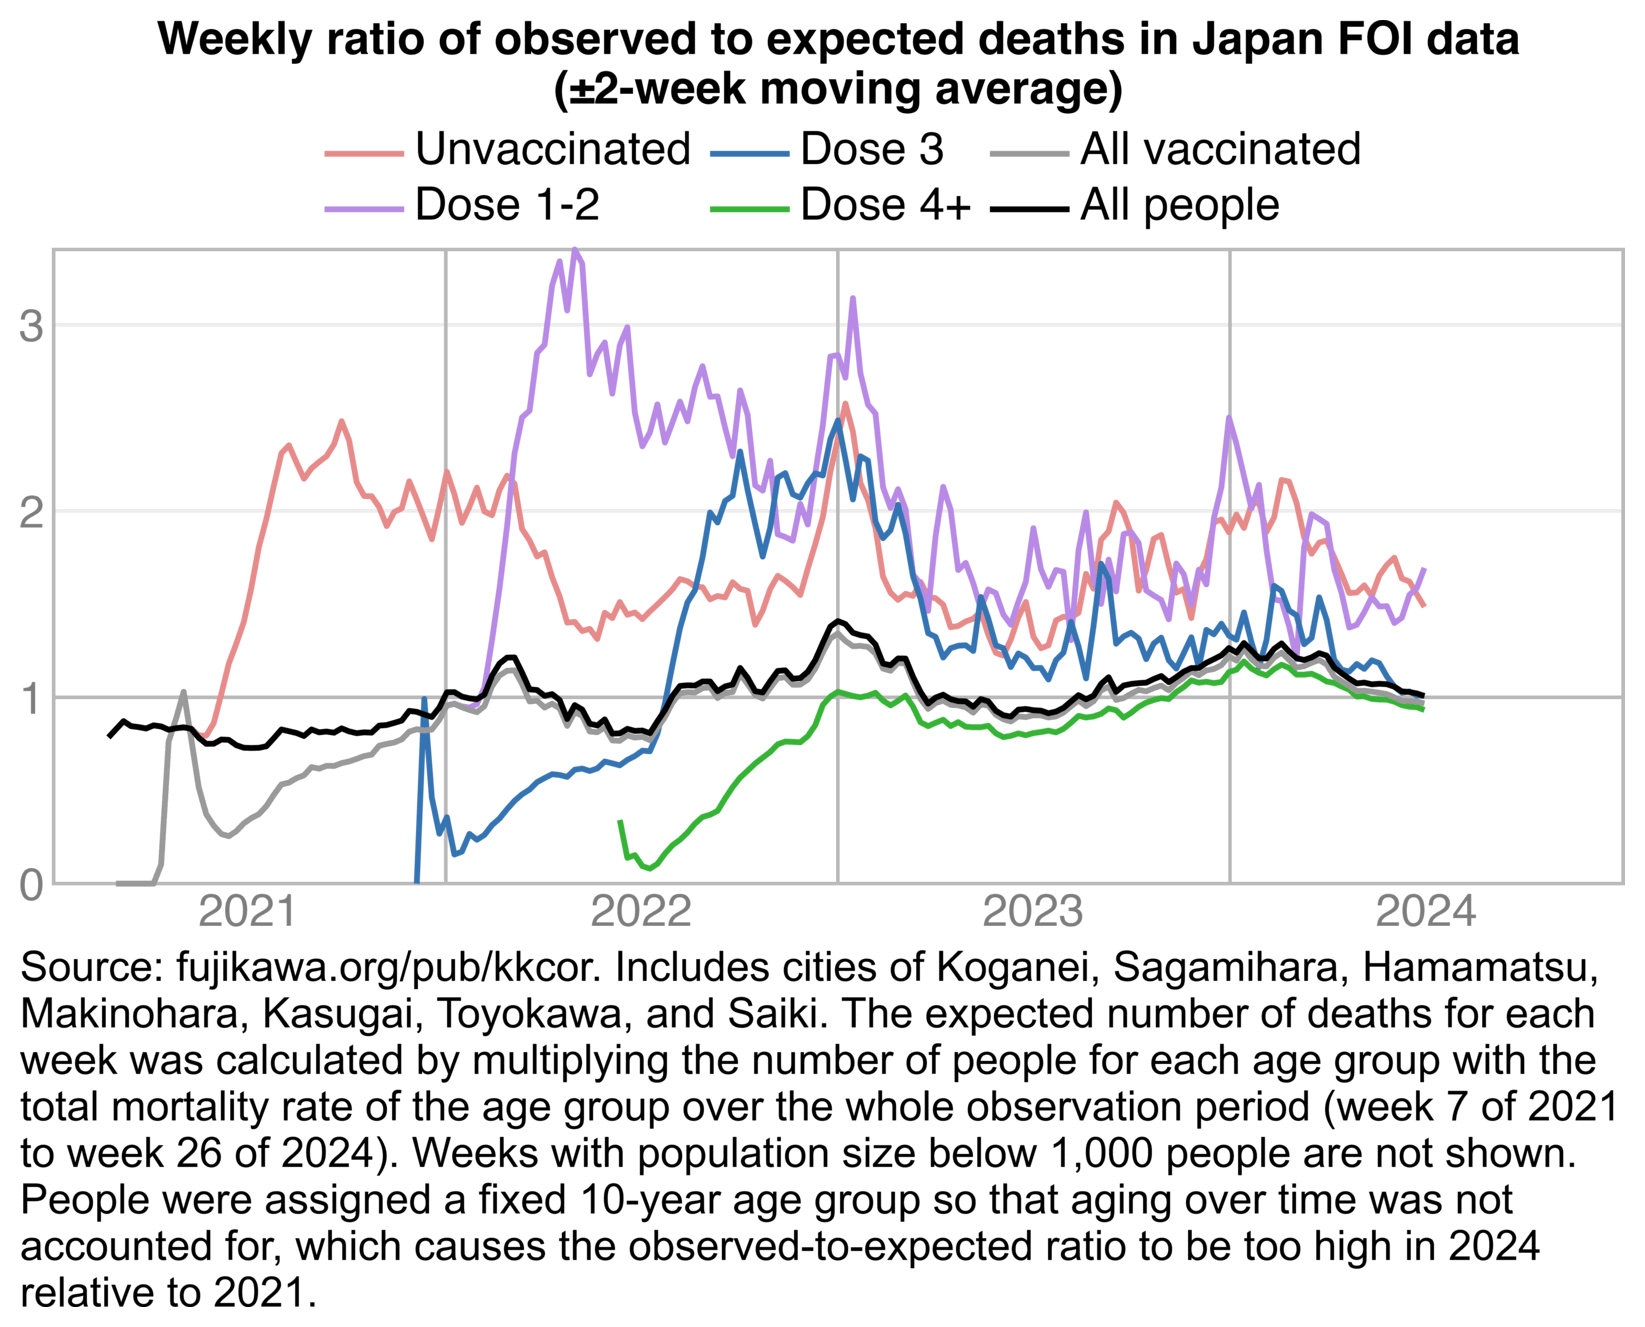
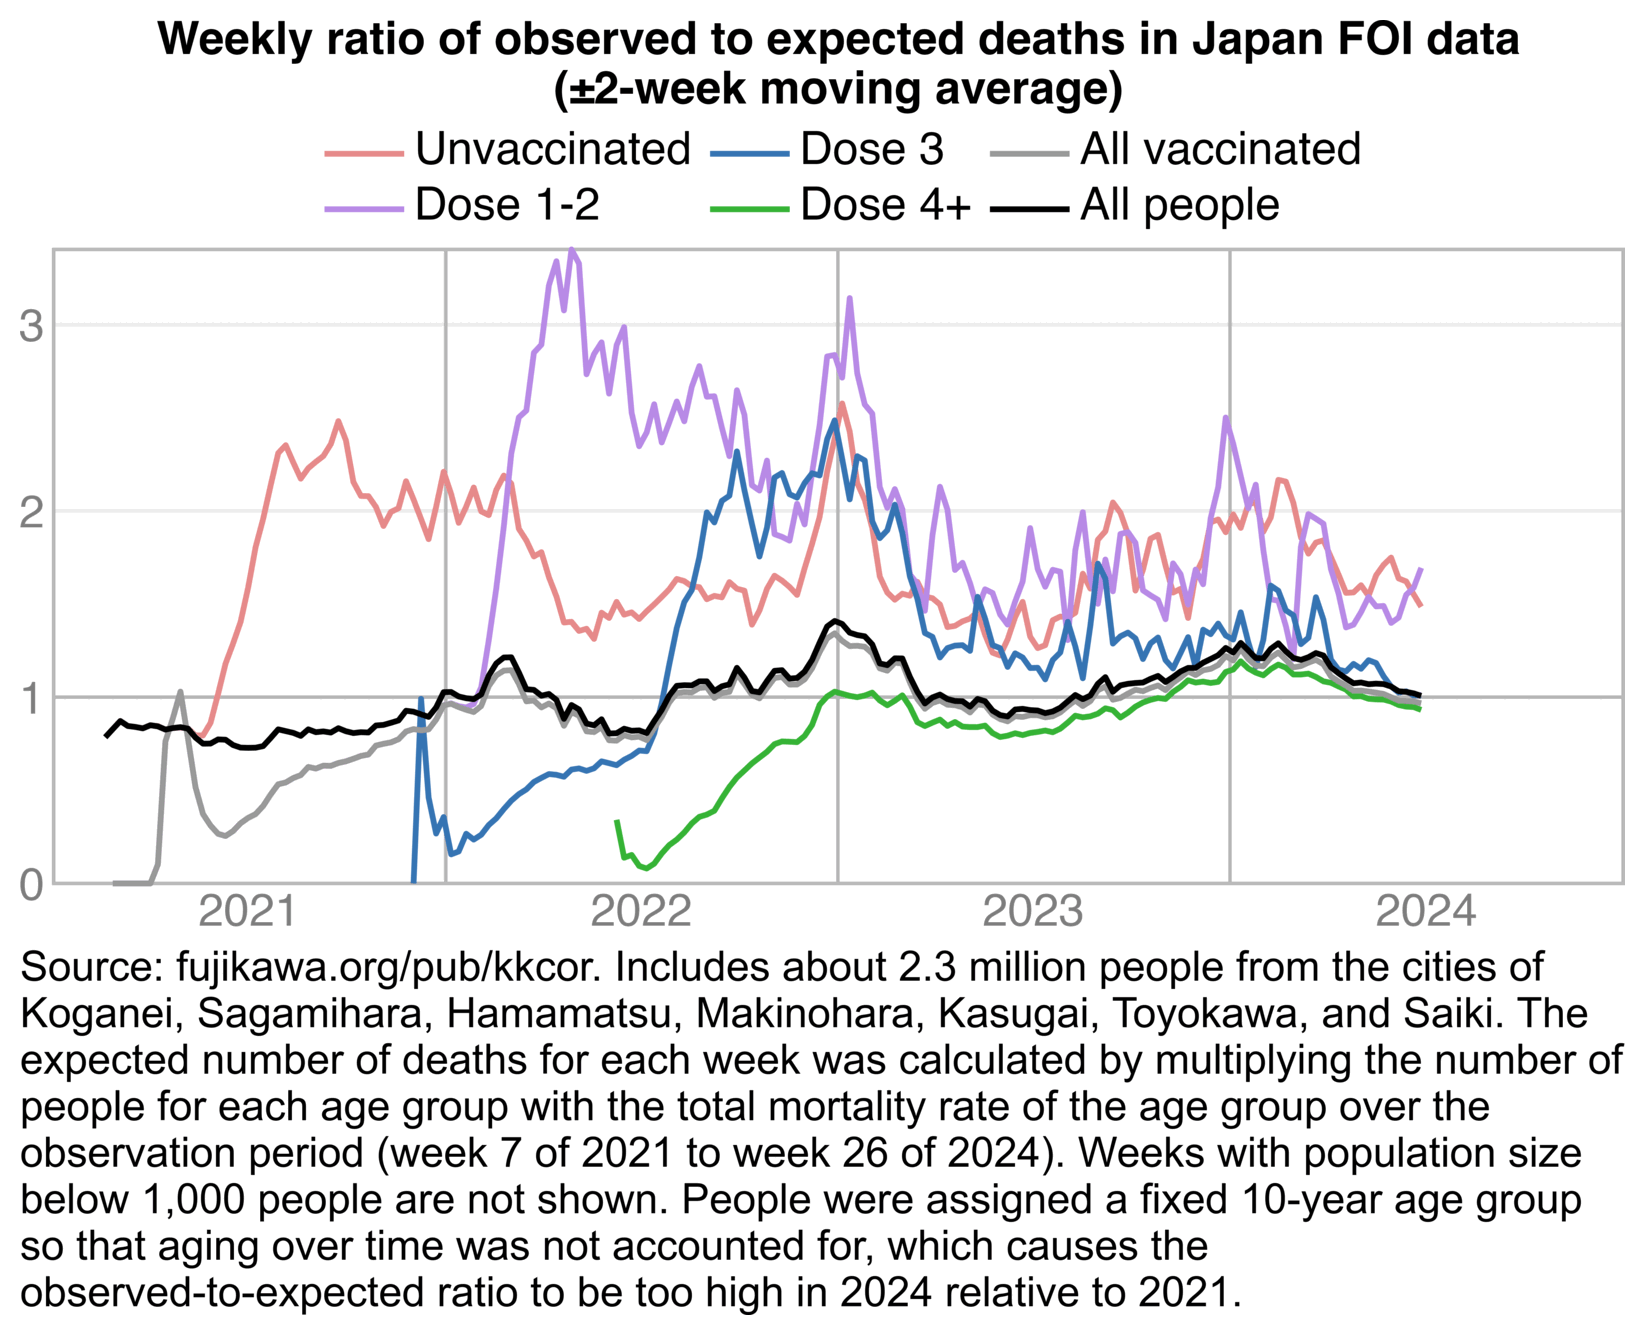
a

diff --git a/rootclaim6.html b/rootclaim6.html
@@ -87,30 +87,36 @@ mortality."</span>
 <div>
 <img src=i/rootclaim-jpcum-1.webp width=800>
 </div>
-<p>So at the start of the x-axis, people with 4 doses have reduced
+<p>By <span class="quote">"mortality"</span>, Kirsch meant the
+cumulative number of deaths multiplied by a constant factor, which he
+chose so that his two lines were roughly aligned at the start of the
+x-axis. But if by mortality you mean ASMR instead, then the 4-dose
+cohort has lower mortality than the 3-dose cohort even at the end of the
+x-axis.</p>
+<p>At the start of the x-axis, people with 4 doses have reduced
 mortality because of the healthy vaccinee effect, and people with 3
 doses have elevated mortality because of the straggler effect. But over
-time the age-standardized mortality rate of the cohorts converges.</p>
+time the ASMR of the two cohorts converges.</p>
 <p>Kirsch aligned the lines so that they matched at the start of the
-x-axis, so the line for dose 4 rose above the line for dose 3 at the end
-of the x-axis, which Kirsch interpreted as harm caused by vaccines. But
-if you align the lines so that they are matched at the end of the x-axis
-instead, then it rather looks like dose 3 has high mortality at the
-start of the x-axis relative to dose 4, which can be explained by the
-straggler effect:
+x-axis, but when the line for dose 4 subsequently rose above the line
+for dose 3, Kirsch attributed the increase to harm caused by vaccines.
+But if you align the lines so that they are matched at the end of the
+x-axis instead, then it rather looks like dose 3 has high mortality at
+the start of the x-axis relative to dose 4, which can be explained by
+the straggler effect:
 [<a href=https://medicalfacts.info/kcor.rb>https://medicalfacts.info/kcor.rb</a>]</p>
 <div>
 <img src=i/rootclaim-jpcum-2.webp width=800>
 </div>
-<p>Kenji Fujikawa has now published CSV files for FOI data from 7 cities
-here: <a href=https://fujikawa.org/pub/kkcor/.><a
+<p>Kenji Fujikawa has now published FOI data from 7 cities here:
+<a href=https://fujikawa.org/pub/kkcor/.><a
 href="https://fujikawa.org/pub/kkcor/"
 class="uri">https://fujikawa.org/pub/kkcor/</a>.</a> I used his files to
-make the next plot, which shows that due to the straggler effect, the
-mortality of people with 3 but not more doses shoots up in late 2022
-when the 4th dose is rolled out. But by late 2023 the straggler effect
-has weakened, so people with 3 but not more doses have only slightly
-higher mortality than people with 4 or more doses:</p>
+make the next plot, which shows in late 2022 when the 4th dose is rolled
+out, the mortality of people with 3 but not more doses shoots up because
+of the straggler effect. But by late 2023 the straggler effect has
+weakened, so people with 3 but not more doses have almost as low
+mortality than people with 4 or more doses:</p>
 <div>
 <img src=i/rootclaim-jpcum-4.webp width=550>
 </div>
@@ -119,6 +125,8 @@ higher mortality than people with 4 or more doses:</p>
 Show code
 </button>
 <pre>system(&quot;wget -rl1 -np -nd -nH -Acsv https://fujikawa.org/pub/kkcor&quot;)
+
+ma=\(x,b=1,f=b){x[]=rowMeans(embed(c(rep(NA,b),x,rep(NA,f)),f+b+1),na.rm=T);x}
 
 t=do.call(rbind,lapply(Sys.glob(&quot;jp*WKA.csv&quot;),fread,fill=T))
 
@@ -142,10 +150,10 @@ a[,`:=`(dead=ma(dead,2),pop=ma(pop,2)),.(dose,age)]
 
 a[,base:=pop*a[,sum(dead)/sum(pop),age]$V1[factor(age)]]
 
-a=rbind(a,a[dose&gt;0][,dose:=7],copy(a)[,dose:=8])
+a=rbind(a,a[dose&gt;0][,dose:=4],copy(a)[,dose:=5])
 a=a[,.(dead=sum(dead),pop=sum(pop),base=sum(base)),.(dose,age,date)]
 
-p=a[,.(y=ifelse(sum(pop)&lt;1e3,NA_real_,sum(dead)/sum(base))),.(x=date,z=dose)]
+p=a[,.(y=ifelse(sum(pop)&lt;1e3,NA_real_,sum(dead)/sum(base))),.(x=date-3,z=dose)]
 
 lab=c(&quot;Unvaccinated&quot;,&quot;Dose 1-2&quot;,&quot;Dose 3&quot;,&quot;Dose 4+&quot;,&quot;All vaccinated&quot;,&quot;All people&quot;)
 color=c(hsv(c(0,27/36,21/36,1/3),c(.4,.4,.7,.7),c(.9,.9,.7,.7)),&quot;gray60&quot;,&quot;black&quot;)
@@ -156,7 +164,7 @@ ystart=0;yend=max(p$y,na.rm=T);ybreak=0:yend
 ylim=p[,.(max=max(y,na.rm=T))]
 
 ggplot(p)+
-geom_hline(yintercept=ybreak,color=&quot;gray92&quot;,linewidth=.4)+
+geom_hline(yintercept=ybreak,color=&quot;gray91&quot;,linewidth=.4)+
 geom_rect(data=ylim,aes(ymax=max),xmin=xstart,xmax=xend,ymin=ystart,lineend=&quot;square&quot;,linejoin=&quot;mitre&quot;,fill=NA,color=&quot;gray72&quot;,linewidth=.4)+
 geom_hline(yintercept=1,color=&quot;gray72&quot;,linewidth=.4)+
 geom_vline(xintercept=seq(xstart,xend,&quot;year&quot;),color=&quot;gray72&quot;,linewidth=.4)+
@@ -188,7 +196,7 @@ theme(axis.text=element_text(size=11,color=&quot;gray50&quot;),
   plot.title=element_text(size=11,hjust=.5,face=2,margin=margin(,,3)))
 ggsave(&quot;1.png&quot;,width=5.5,height=3.2,dpi=300*4)
 
-system(&quot;mogrify -trim 1.png;magick 1.png \\( -size `identify -format %w 1.png`x -font Arial -interline-spacing -3 -pointsize $[42*4] caption:&#39;Source: fujikawa.org/pub/kkcor. Includes cities of Koganei, Sagamihara, Hamamatsu, Makinohara, Kasugai, Toyokawa, and Saiki. The expected number of deaths for each week was calculated by multiplying the number of people for each age group with the total mortality rate of the age group over the whole observation period (week 7 of 2021 to week 26 of 2024). Weeks with population size below 1,000 people are not shown. People were assigned a fixed 10-year age group so that aging over time was not accounted for, which causes the observed-to-expected ratio to be too high in 2024 relative to 2021.&#39; -splice x$[16*4] \\) -append -trim -resize 25% -bordercolor white -border 20 -dither none -colors 256 1.png&quot;)</pre>
+system(&quot;mogrify -trim 1.png;magick 1.png \\( -size `identify -format %w 1.png`x -font Arial -interline-spacing -3 -pointsize $[42*4] caption:&#39;Source: fujikawa.org/pub/kkcor. Includes about 2.3 million people from the cities of Koganei, Sagamihara, Hamamatsu, Makinohara, Kasugai, Toyokawa, and Saiki. The expected number of deaths for each week was calculated by multiplying the number of people for each age group with the total mortality rate of the age group over the observation period (week 7 of 2021 to week 26 of 2024). Weeks with population size below 1,000 people are not shown. People were assigned a fixed 10-year age group so that aging over time was not accounted for, which causes the observed-to-expected ratio to be too high in 2024 relative to 2021.&#39; -splice x$[16*4] \\) -append -trim -resize 25% -bordercolor white -border 20 -dither none -colors 256 1.png&quot;)</pre>
 </div>
 <script>
 document.querySelectorAll('pre').forEach(e=>e.innerHTML=e.innerHTML.replace(/((^| )# [^\n]*|^#$)/mg,"<span class=comment>$1</span>"))
